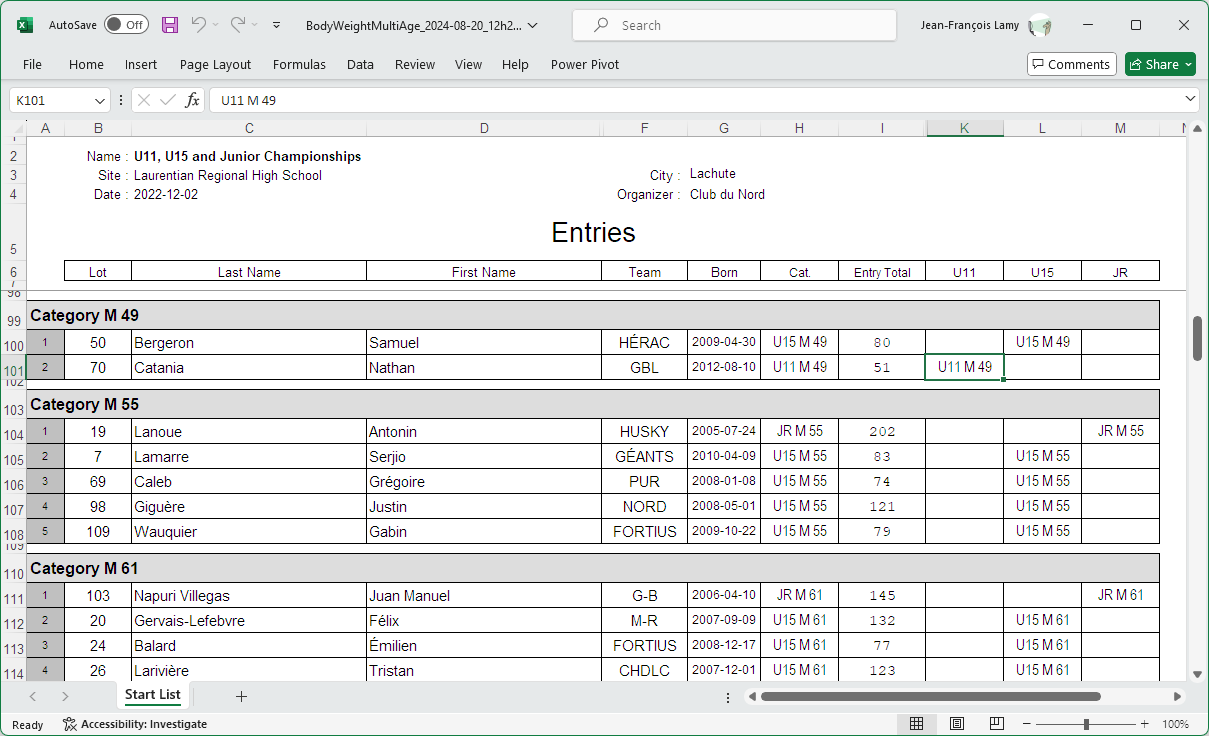
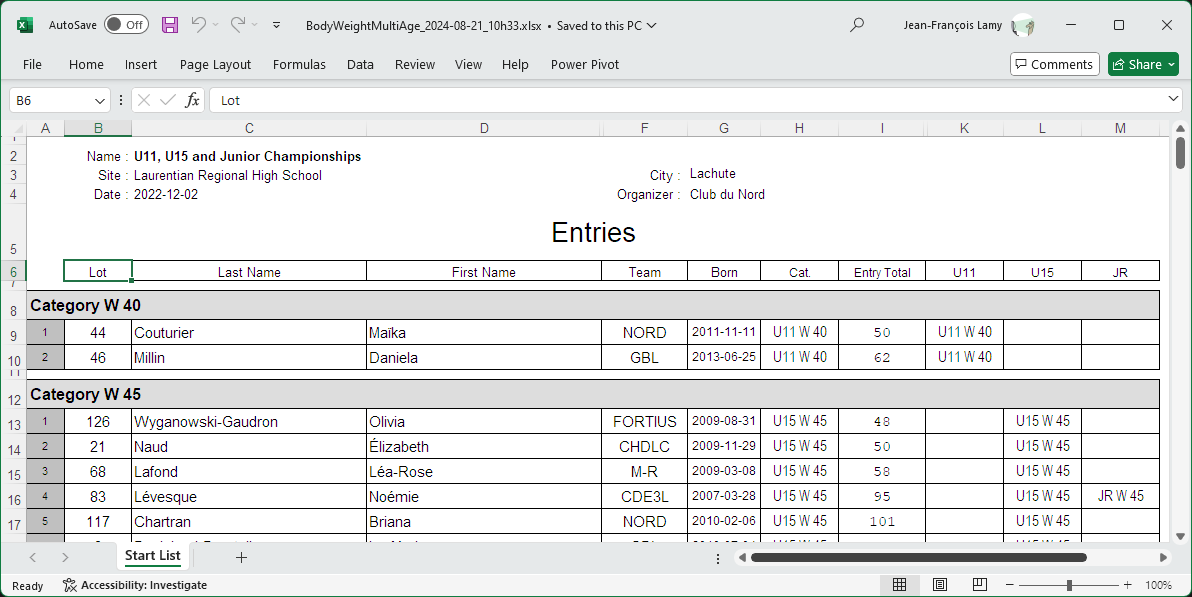
updated documentation for documents

diff --git a/docs/2400PreCompetitionDocuments.md b/docs/2400PreCompetitionDocuments.md
@@ -11,8 +11,8 @@ It is reached from the `Prepare Competition` page, selecting the `Documents` but
 
 The page has two sections.  The top section includes buttons to print the various documents.  The bottom section is used to select sessions.
 
-- The documents in the top two lines (Entries and Pre-Competition) are global for a competition.
-- The documents in the bottom two lines are typically produced for one or more sessions at a time.  The sessions are selected using the checkboxes in the bottom section.
+- The documents in the top two lines (Entries and Pre-Competition) are global for a competition.  Selecting sessions has no effect.
+- The documents in the bottom two lines are typically produced for one or more sessions at a time.  The sessions are selected using the checkboxes in the bottom section.  
 
 ### Multi-Session Documents and Document Sets
 
@@ -24,21 +24,28 @@ The page has two sections.  The top section includes buttons to print the variou
 
 The start list (or starting list) shows all the athletes that will compete, in which group, and the order in which the athletes will be weighed in.  When you click on the start list button, you are given a choice of templates to use according to the paper format and whether or not you want the platform information to be visible.
 
+Some federations have their own formats for the Start List.
+
 ![30](nimg/2400PreCompetitionDocuments/30.png)
+
+### Schedule
+
+Some federations have a Schedule template that is a simplified Start List, sometimes with additional information such as the categories and entry total range.
 
 ### Officials' Schedule
 
-The `Officials` buttons creates a summary of all the officials assigned to each group.
+The `Officials` buttons prints a schedule of all the officials assigned to each group.
 
 ## Athlete Cards
 
-Athlete Cards are the cards that will be used by the Marshall to record changes.  The `Cards` Template is meant to be similar to the IWF format. Each page is folded in half, so that one side is snatch, the other is the clean & jerk.  Normally the start number box at the the top left is empty.  The start numbers are written by hand, with a red marker, after the weigh-in data has been entered into the system.
+Athlete Cards are used by the Marshall to record changes.  The `Cards` Template is meant to be similar to the IWF format. Each page is folded in half, so that one side is snatch, and the other is the clean & jerk.  Normally the start number box at the the top left is empty.  The start numbers are written by hand, with a red marker, once the weigh-in data has been entered into the system.
 
 You can produce the cards for one or more sessions.  
 
-- If you do NOT select sessions in the bottom section, and have less than 100 athletes, you can produce the cards as a single Excel, but depending on your system this can be slow.
-- If you select multiple sessions, a zip file is produced with the different sessions.
-- You can combine the athlete cards with the weigh-in form in a single zip by using the "Document Set" button.
+- If you do NOT select sessions in the bottom section, and have less than 100 athletes, you can produce the cards as a single Excel.
+- If you select multiple sessions, a zip file is produced with the different sessions in individual files.
+- You can also combine the athlete cards with the weigh-in form in a single zip by using the `Document Set` button.
+- A utility script is included in the zip for use on Windows. Right-click on the zip and use `Extract All`.  In the extracted folder, right-click on `print.ps1` and use `Run in PowerShell`.  This will print all the files on your default printer.
 
 ![043_AthleteCards](img/WeighIn/043_AthleteCards.png)
 
@@ -52,19 +59,39 @@ Challenge cards are printed from the same menu as Athlete Cards, by selecting th
 
 ### Registration Categories List
 
-The Categories List is a variation on the Start List that is useful before allocating groups.  It shows which athletes have registered in which category. An athlete can be shown several times if eligibible in multiple categories.
+The Categories List is a variation on the Start List that is useful before allocating groups.  It shows which athletes have registered in which category. An athlete can be shown several times if eligible in multiple categories.
 
 ![40](nimg/2400PreCompetitionDocuments/40.png)
 
-### Eligibility Categories List
+### Bodyweight Categories Lists
 
+Some federations do multiple age group competitions but combine all age groups according to bodyweight, and then split sessions according to entry total.  To validate the registrations for such competitions, you can use the Body Weight list.
 
+![17](nimg/2400PreCompetitionDocuments/17.png)
 
-### Team Membership List
+### Team Membership List and Verification of Final Entries
 
-The Teams list is used to check that all athletes are assigned correctly
+The Teams list is used to check that all athletes are assigned correctly - IWF rules put limits on how many athletes there can be in a team and in a given category.
+The VFE template is also useful to record changes during VFE.   When the session is done in person, the team representative's signature can be obtained as confirmation. 
 
-![30](nimg/2400PreCompetitionDocuments/20.png)
+![30](nimg/2400PreCompetitionDocuments/18.png)
 
+### Lifting Session Documents
 
+The following documents are normally printed after weigh-in, before the session starts
 
+### Introduction Sheet
+
+In some federations, an easier to read introduction sheet is given to the speaker.
+
+### Jury Sheet
+
+The Jury Sheet is used by the jury to assess lifts, and to evaluate officials.  The jury sheet can also be used as a manual backup to record lifts.
+
+![50](nimg/2400PreCompetitionDocuments/50.png)
+
+### Empty Protocol
+
+The empty protocol sheet is used as a manual backup.  In some events, such sheets are printed for the coaches to count attempts (the starting requested weights are printed on the sheet)
+
+![60](nimg/2400PreCompetitionDocuments/60.png)
